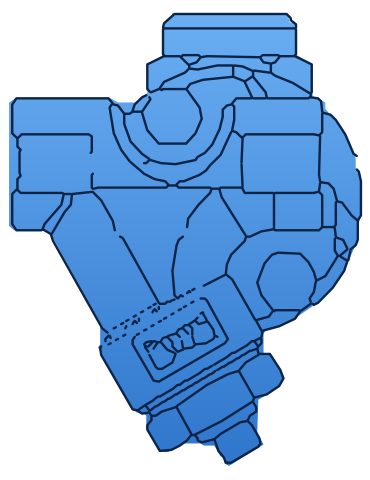
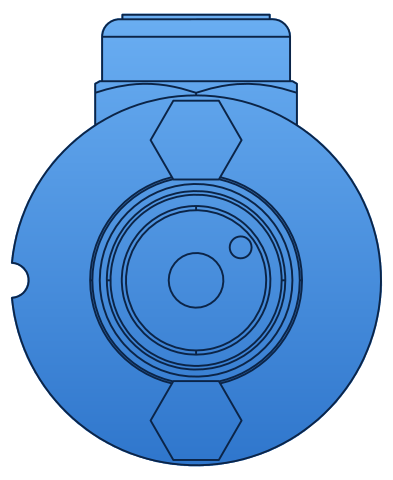
UTD52L: front view from Spirax CAD
Replaces the vectorised TI picture on a strainer connector with the CAD
front view (connector side), one trap point at the bolt centre. Model-only
size like the other universal trap units.

Claude-Session: https://claude.ai/code/session_016qkdkfbUrM9fafk75XM2aX

diff --git a/products/steam-traps/UTD52L/UTD52L.js b/products/steam-traps/UTD52L/UTD52L.js
@@ -1,2 +1,2 @@
 // UTD52L (TI-P614-04-US). Built by tools/make_packs.py.
-SDG.register({"product":{"name":"UTD52L","type":"Thermodynamic, bar stock, on strainer connector","ti":"TI-P614-04-US","sizes":["1/2\""],"variants":["Strainer connector"],"sizeLabel":"Size","variantLabel":"Connector","source":"Vectorised from the TI picture (the sheet has no vector drawing)","note":"Front view on a 1/2\" strainer connector, as the TI draws it (third view on page 3): pipe left to right, strainer leg down on the inlet side. The TI drawing is only a picture, so it was vectorised (tools/raster.py), not traced: lines follow the picture to within about 0.3 mm, but joints are not as clean as a traced drawing. Heights are from the TI: 1.5\" cap top to centreline, 3.0\" centreline to the bottom of the strainer. The TI gives no face to face for the connector; it is measured from the picture at the same scale (about 80 mm) and the connections are there. The connector is sold separately (TI-2-519-US, not attached), so 3/4\" and 1\" connectors are not drawn.","id":"UTD52L","family":"Steam traps"},"symbols":{"UTD52L|1/2\"|Strainer connector":{"box":[0.0,-38.1,88.31,114.3],"fill":"M69.76,-37.59 L41.02,-37.59 L40.76,-36.82 L38.93,-35.02 L38.41,-33.48 L38.41,-26.81 L34.75,-24.76 L34.75,-17.57 L32.14,-15.27 L27.43,-15.27 L25.60,-16.29 L1.83,-16.29 L0.26,-15.27 L0.26,15.56 L1.57,16.62 L8.62,16.62 L9.67,16.89 L10.97,18.22 L22.99,39.76 L22.99,45.08 L22.47,45.88 L31.09,61.31 L32.14,62.10 L33.96,62.37 L34.49,62.90 L34.49,65.83 L37.62,71.41 L38.41,71.94 L39.97,71.94 L43.37,69.82 L48.07,69.82 L48.86,70.35 L51.47,70.35 L53.04,73.01 L53.82,73.27 L54.08,74.87 L55.13,75.40 L63.75,70.08 L62.18,67.16 L62.44,58.91 L67.67,55.72 L68.97,53.33 L65.84,47.74 L63.75,47.21 L63.75,42.42 L64.27,41.62 L66.36,41.09 L71.06,38.96 L76.81,34.97 L81.25,30.45 L83.87,26.73 L87.52,18.48 L87.52,15.03 L88.31,11.30 L88.31,5.98 L87.79,2.53 L86.74,1.73 L86.74,-1.41 L83.34,-8.59 L79.16,-13.73 L79.16,-15.27 L76.03,-16.81 L76.03,-24.50 L72.11,-27.07 L72.11,-34.25 L71.59,-35.02 L70.28,-35.28Z","strokes":[[0.6,"M61.14,-21.68L64.27,-17.83L64.53,-16.55M71.59,-26.81L75.77,-24.76L75.77,-17.83L75.51,-17.57M52.25,43.22L51.73,42.95M47.03,54.66L48.60,53.59M50.69,52.53L51.73,51.73M78.38,-12.44L78.38,-7.83L77.86,-7.31M82.82,23.01L82.30,23.01M24.82,42.16L23.51,41.09L11.23,19.28L10.71,17.69M71.59,-33.74L38.93,-33.74M34.49,45.61L35.01,45.61L36.05,44.55M29.52,39.23L30.05,38.96M43.11,36.30L42.59,36.57M36.32,36.57L36.05,37.10M83.08,23.27L84.39,24.07M35.01,62.10L33.44,62.37L32.66,61.84M50.95,50.40L49.64,51.20M45.72,67.69L44.68,69.02L42.85,70.35L40.76,71.41L37.88,71.68L34.75,66.36L34.75,65.30L35.79,63.97L35.79,63.17M54.60,48.27L55.91,47.21L56.43,47.21M54.60,48.27L52.78,49.34M29.00,-12.19L29.00,-9.88L30.57,-5.52L33.44,-2.44L35.27,-1.15M48.86,53.59L50.42,52.53M65.58,-24.76L65.58,-22.96M67.93,-26.81L71.33,-26.81M2.35,6.25L2.35,3.86L3.14,3.06L2.87,2.26L2.87,-2.95L3.14,-3.46L2.35,-4.23L2.35,-6.29M52.78,49.34L51.47,50.14M66.10,7.31L59.05,7.31L58.52,6.25M48.86,30.45L54.08,27.79M15.94,7.85L15.68,10.24L14.11,12.10L10.97,17.42M38.67,-33.99L38.93,-35.02L41.54,-37.33L69.50,-37.33L70.54,-36.30L70.54,-35.79L71.85,-34.76L71.85,-33.99M66.36,7.58L66.36,16.36M58.52,5.72L58.26,0.13M56.17,-21.68L56.17,-24.25M56.17,-21.68L48.60,-20.91L45.46,-19.88L44.68,-18.86M56.17,-21.68L58.79,-20.65M44.94,40.29L44.15,40.29L43.63,40.83M60.88,-21.68L59.31,-20.65M42.06,57.58L43.63,56.52M37.36,44.55L36.32,44.28M37.36,44.55L37.88,44.55M37.36,44.55L36.32,46.15M35.27,47.74L36.84,50.67L37.36,51.20L38.41,51.20L41.02,49.60L41.80,47.48M34.23,45.61L33.96,45.08L34.49,44.55L35.79,44.28M44.42,-18.60L38.67,-18.60L38.41,-18.34L37.88,-18.60M45.98,53.33L47.81,52.26M45.98,53.33L44.68,54.12M40.24,58.65L41.80,57.58M46.77,39.23L47.55,40.03L49.38,39.50M46.77,45.08L49.38,44.82L51.21,43.75L51.47,43.22M81.78,18.22L81.52,16.09M46.51,31.25L45.98,31.52M43.89,56.52L45.46,55.45M35.27,-0.90L34.49,-0.13L33.96,-0.13M37.62,34.71L28.74,18.75M45.98,43.22L46.51,44.82M26.39,41.09L26.91,40.83M44.68,32.32L45.20,31.78L45.46,32.05M48.07,37.37L48.60,37.10L48.86,37.90M43.63,33.11L43.11,32.85L42.59,33.38M45.20,-24.50L45.20,-23.99M47.81,52.26L49.12,51.20L49.64,51.20M58.52,-6.29L58.26,-0.38M61.14,-22.96L61.14,-21.94M45.72,55.45L46.77,54.66M2.09,-6.54L1.05,-7.57L1.05,-14.75L2.09,-16.29L25.08,-16.29L26.13,-15.01M27.43,43.75L26.91,44.02M77.86,4.92L77.60,6.78M58.52,47.74L57.48,48.54M64.27,-16.29L61.14,-16.29M34.49,41.36L33.96,41.62M36.32,35.24L36.84,34.97M25.60,44.82L25.08,45.08M35.53,61.57L36.84,60.51M82.30,23.01L81.52,21.68L81.52,18.75M82.30,23.01L79.16,28.06L77.07,29.12M29.26,42.69L28.74,42.95M58.26,-6.54L56.96,-7.83L56.17,-8.08M60.35,46.68L58.79,47.74M39.97,58.65L38.93,59.44M77.60,7.05L78.38,7.85L78.38,15.56M75.24,-17.57L71.06,-20.14L66.62,-21.94L65.58,-22.71M46.51,39.23L45.20,40.03M59.83,63.97L60.35,62.90L61.92,61.84L61.92,60.77L61.14,59.44M36.32,40.29L35.79,40.56M66.36,16.36L63.23,16.89L60.35,18.22L59.57,18.22M66.36,16.36L66.62,16.62L77.60,16.62L78.38,15.83M60.61,-16.29L56.96,-16.29L55.91,-15.01M42.06,42.42L42.85,43.22M60.88,-23.22L58.52,-24.25L56.43,-24.50M39.19,57.32L41.02,56.25M39.19,57.32L37.88,58.11M42.06,60.51L49.64,55.19L54.87,52.53L57.48,51.73M42.85,55.19L44.15,54.12L44.68,54.12M42.85,55.19L42.33,55.19L41.02,56.25M23.25,45.61L22.99,45.88L23.25,47.74L31.09,61.31L32.40,61.57M43.63,41.09L44.94,42.42M36.58,36.30L37.10,36.84M38.14,39.23L37.62,39.50M41.54,47.21L39.71,46.41L38.14,44.55M62.70,47.48L65.32,47.48L67.93,51.46L68.71,53.59L67.67,55.45L64.53,57.58L61.40,58.38M53.56,50.67L52.25,51.46M45.20,-23.73L47.29,-23.48L52.25,-24.50L55.91,-24.50M14.11,7.58L15.68,7.58M39.71,43.22L38.67,43.49L38.14,44.28M66.10,36.57L63.23,32.85L62.18,29.66L64.01,24.87L65.84,22.74L67.41,22.21L72.89,22.47L74.98,24.60L76.29,27.00L76.81,28.86M28.48,18.48L27.96,18.22M78.38,-12.96L78.12,-15.52L77.34,-16.29L75.51,-16.55M35.27,61.57L34.23,60.24M37.62,36.30L37.62,35.77M55.39,49.60L53.82,50.67M38.67,59.44L37.10,60.51M63.75,41.62L67.67,40.56L71.59,38.70L72.89,36.84M81.25,15.83L78.64,15.83M75.51,-16.81L75.51,-17.32M39.19,34.97L39.71,34.44L40.50,34.44M60.88,59.44L53.30,64.23L46.51,67.69M87.26,14.23L85.70,12.90L83.34,9.71L82.30,9.44M87.26,14.23L88.05,12.90L88.05,4.39L87.52,1.99L87.00,1.46M87.26,14.23L87.26,19.02L86.74,20.35L85.43,21.41M57.22,48.54L55.65,49.60M65.32,-22.71L61.40,-23.22M48.07,33.65L49.12,33.65L49.64,34.18L54.87,43.75L54.08,44.82L37.62,54.39L36.32,54.12L31.09,45.08L31.09,44.02L31.61,43.22M43.37,41.09L42.59,41.36L42.06,42.16M21.42,6.25L22.47,5.98L39.45,5.98L39.97,5.45M75.51,34.97L72.89,36.84M55.91,-8.34L56.43,-10.90L56.43,-14.24L55.91,-14.75M31.35,38.17L31.87,37.90M25.60,43.49L25.34,42.95M13.85,7.58L13.59,7.31L3.14,7.31L2.35,6.52M50.69,6.25L50.42,5.98L42.59,5.98L42.06,5.45M37.88,34.97L38.93,34.97M72.89,36.84L72.63,36.57L66.62,36.57L66.36,36.84M42.33,46.94L41.02,45.61L41.02,44.55L39.97,43.49M42.33,46.94L43.63,46.41M20.64,-2.69L20.90,-2.95L20.90,-6.80L20.12,-7.31L3.40,-7.31L2.61,-6.54M44.68,15.83L44.94,13.70L47.55,10.24L50.42,7.31L50.69,6.52M37.88,-18.86L38.93,-20.40L44.15,-22.71L44.94,-23.48M83.08,22.74L84.65,21.41M31.09,-12.96L30.31,-12.44L29.26,-12.44M33.44,-12.96L35.53,-16.04L35.27,-16.55M43.37,-26.81L43.63,-27.07L47.55,-27.07L48.07,-26.55M33.18,37.10L33.70,36.84M71.85,-33.48L71.85,-27.32L71.59,-27.07M50.42,0.40L53.04,-2.18L55.65,-7.83M50.42,0.40L49.38,1.73L47.81,2.79L43.89,4.39L42.85,4.39L42.06,5.19M34.23,60.24L36.05,59.18M34.23,60.24L32.66,61.31M61.40,58.38L57.74,52.00M61.40,58.38L61.14,59.18M84.65,24.34L83.87,26.73L80.99,30.99L77.34,34.71L76.29,35.24L76.03,34.97M82.04,18.48L83.61,19.02L84.65,21.14M35.01,36.04L35.53,35.77M21.16,6.25L20.90,5.98L20.90,2.79L21.16,2.53M45.46,-24.76L47.03,-25.27L48.07,-26.55M36.05,59.18L37.36,58.11L37.88,58.11M62.97,43.49L61.40,44.28M35.79,-17.83L37.62,-18.60M77.86,4.39L77.60,2.79L77.86,-6.80M35.01,46.94L34.23,45.88M59.31,17.95L53.30,8.38L52.78,6.52M52.78,6.25L53.04,5.98L58.26,5.98M65.84,37.10L65.06,38.17L62.18,38.96M41.80,5.45L40.24,5.45M28.22,40.03L28.74,39.76M31.61,39.23L32.14,39.76M33.18,-12.96L31.35,-12.96M44.68,-18.34L47.81,-13.98L48.33,-11.16L46.77,-7.57L44.42,-5.00L37.62,-5.00L34.75,-8.34L33.44,-12.70M45.98,42.69L45.98,41.09L45.20,40.29M67.67,-26.81L67.41,-27.07L63.49,-27.07L62.97,-26.55M24.30,44.28L24.30,43.75L25.08,42.95M43.89,35.77L44.42,35.51M47.29,38.43L46.77,38.96M32.66,39.23L32.66,38.70M26.39,-14.75L27.43,-14.50L29.00,-12.44M46.51,67.69L45.98,67.69M46.51,67.69L47.29,68.49L47.29,69.02L48.33,69.55L51.47,68.75M61.66,38.96L55.91,28.86L54.60,27.79M26.65,16.62L26.13,14.23L23.25,9.18L21.16,7.05M36.05,62.90L36.84,62.90L38.41,61.84L41.80,60.77M61.92,39.23L63.23,41.62M45.72,34.71L46.24,34.44M30.57,-0.38L33.96,2.53L36.58,3.86L39.19,4.39L39.97,5.19M39.97,42.95L41.80,42.42M55.65,-14.75L54.60,-14.50L53.56,-13.47L53.56,-11.67L52.78,-8.59L50.95,-4.75L49.12,-2.69L47.29,-1.67L46.77,-0.90M42.06,60.77L45.72,67.42M82.04,9.18L81.25,6.25L79.95,4.92L78.12,4.65M65.84,-25.02L66.62,-25.27L67.67,-26.55M34.49,-17.06L33.44,-16.55L31.61,-14.75L31.09,-13.21M46.77,-0.90L41.80,0.13L38.14,-0.13L35.53,-0.90M38.93,38.70L39.45,38.43M38.93,-27.07L38.67,-27.32L38.67,-33.48M2.09,6.52L1.05,7.58L1.05,15.03L2.09,16.62L8.36,16.62L8.62,16.36M40.76,37.63L41.28,37.37M35.79,62.90L35.27,62.10M78.64,-12.70L80.47,-12.19L81.78,-10.90L84.13,-7.31L86.22,-2.44L87.00,-1.92M66.62,7.31L76.29,7.31L77.34,7.05M62.18,46.15L62.44,45.61M62.18,46.15L60.61,46.68M62.18,46.15L62.44,47.21M8.62,16.36L9.14,15.03L13.32,10.24L13.85,7.85M8.62,16.36L10.45,17.42M59.83,64.23L60.88,65.30L62.70,68.49L62.97,69.82L62.44,70.61L55.65,74.60L54.34,74.60L53.82,73.27L52.51,71.68L51.47,68.75M30.31,-0.64L28.22,-3.46L26.39,-7.57L25.34,-13.98L25.87,-14.75M46.51,45.35L45.98,45.88L43.89,46.15M43.63,18.22L42.59,19.02L42.06,20.35L41.02,26.73L41.54,32.85L42.33,33.65M84.91,24.07L85.43,21.68M49.12,38.17L49.64,39.23M77.60,-7.06L76.29,-7.31L59.31,-7.31L58.52,-6.54M75.51,34.44L75.24,33.65L76.29,32.05L76.81,29.39M75.24,-16.55L74.98,-16.29L64.79,-16.29M63.23,43.75L63.23,44.82L62.44,45.61M65.32,-25.02L63.75,-25.27L62.97,-26.30M54.34,27.53L54.60,25.13L55.65,22.74L59.05,19.28L59.31,18.48M32.14,42.69L32.66,42.42M43.37,44.28L43.63,45.88M60.88,-16.55L59.05,-20.40M15.94,7.58L20.90,7.05M62.44,47.74L59.31,49.60L57.74,51.46M29.52,40.56L29.26,41.09M48.07,-26.55L49.64,-26.81L62.70,-26.55M62.44,45.61L61.40,44.28M35.53,-17.83L34.75,-18.60L34.75,-24.76L38.93,-26.81M31.35,39.50L31.09,40.03M81.52,15.56L81.78,15.29L81.78,9.71L82.04,9.44M40.76,34.18L41.54,33.91M52.51,6.25L50.95,6.25M42.85,-26.81L39.19,-26.81M43.11,-26.55L44.94,-24.76M49.90,39.50L51.21,41.36L51.47,42.69M57.74,46.41L59.57,45.35M57.74,46.41L56.43,47.21M59.57,45.35L60.88,44.28L61.40,44.28M63.23,43.22L63.49,41.89M51.47,68.75L53.04,67.42L58.00,64.50L59.57,64.23"]],"arrow":null,"dims":{"Cap top to centreline":38.1,"Centreline to strainer bottom":76.2,"Face to face (from the picture)":79.9},"ports":[[0.0,0.0],[79.9,0.0]]}}});
+SDG.register({"product":{"name":"UTD52L","type":"Thermodynamic, for pipeline connectors, front view","ti":"TI-P614-04-US","sizes":["UTD52L"],"variants":["-"],"sizeLabel":"Model","source":"Spirax 2D CAD (UTD52L connector 173C front DWG), 1:1","note":"Front view from Spirax's 2D CAD of the UTD52L (front DWG, visible edges only), 1:1: the trap seen from the connector side, flange 67 round about the spigot, the two connector bolts above and below it, 50.8 apart, and the hex body and cap standing up behind (cap top 48.1 above the spigot centreline). The one connection point is the bolt centre (= spigot centre), so it snaps onto a connector's trap point. Replaces the vectorised TI picture on a strainer connector (2026-11-18); _utd52l still builds that.","id":"UTD52L","family":"Steam traps"},"symbols":{"UTD52L|UTD52L|-":{"box":[-33.52,-48.28,67.19,81.95],"fill":"M-13.35,-48.31 L-13.45,-48.26 L-13.55,-48.11 L-13.55,-47.51 L-13.60,-47.46 L-14.30,-47.46 L-14.35,-47.41 L-14.65,-47.41 L-14.70,-47.36 L-14.90,-47.36 L-15.25,-47.16 L-15.45,-47.11 L-15.65,-46.91 L-16.00,-46.71 L-16.45,-46.31 L-16.65,-45.96 L-16.85,-45.76 L-16.90,-45.56 L-17.00,-45.41 L-17.00,-45.31 L-17.10,-45.16 L-17.15,-44.66 L-17.20,-44.61 L-17.20,-36.31 L-17.25,-36.26 L-17.50,-36.26 L-17.80,-36.11 L-17.90,-36.01 L-18.35,-35.81 L-18.45,-35.61 L-18.45,-28.21 L-20.55,-26.71 L-21.50,-25.91 L-21.75,-25.76 L-22.05,-25.46 L-22.10,-25.46 L-24.45,-23.21 L-24.45,-23.16 L-25.35,-22.26 L-25.35,-22.21 L-26.05,-21.46 L-26.30,-21.06 L-27.25,-19.81 L-27.35,-19.61 L-27.50,-19.46 L-28.85,-17.41 L-29.00,-17.26 L-29.30,-16.61 L-29.40,-16.51 L-29.65,-15.96 L-29.75,-15.86 L-30.35,-14.61 L-30.55,-14.31 L-30.55,-14.21 L-30.70,-13.96 L-30.70,-13.86 L-30.85,-13.61 L-30.85,-13.51 L-31.05,-13.16 L-31.20,-12.66 L-31.30,-12.51 L-31.30,-12.41 L-31.40,-12.26 L-31.40,-12.16 L-31.70,-11.51 L-31.70,-11.41 L-31.75,-11.36 L-31.75,-11.26 L-31.80,-11.21 L-31.80,-11.11 L-32.20,-10.01 L-32.20,-9.86 L-32.35,-9.51 L-32.35,-9.36 L-32.45,-9.16 L-32.50,-8.81 L-32.55,-8.76 L-32.60,-8.46 L-32.75,-8.06 L-32.80,-7.61 L-32.90,-7.36 L-32.90,-7.16 L-32.95,-7.11 L-32.95,-6.91 L-33.00,-6.86 L-33.00,-6.66 L-33.05,-6.61 L-33.05,-6.41 L-33.10,-6.36 L-33.10,-6.16 L-33.15,-6.11 L-33.15,-5.86 L-33.20,-5.81 L-33.25,-5.31 L-33.30,-5.26 L-33.30,-5.06 L-33.35,-5.01 L-33.35,-4.66 L-33.40,-4.61 L-33.40,-4.26 L-33.45,-4.21 L-33.45,-3.81 L-33.50,-3.76 L-33.55,-3.16 L-33.50,-3.06 L-33.35,-2.96 L-32.75,-2.91 L-32.70,-2.86 L-32.30,-2.76 L-32.20,-2.66 L-31.90,-2.51 L-31.15,-1.81 L-30.85,-1.41 L-30.85,-1.31 L-30.75,-1.16 L-30.75,-1.06 L-30.65,-0.86 L-30.65,-0.71 L-30.55,-0.46 L-30.55,0.34 L-30.60,0.39 L-30.65,0.84 L-30.75,0.99 L-30.80,1.24 L-30.90,1.34 L-31.20,1.89 L-31.45,2.19 L-31.80,2.44 L-32.05,2.54 L-32.15,2.64 L-32.45,2.79 L-33.40,2.99 L-33.55,3.19 L-33.55,3.34 L-33.50,3.39 L-33.50,3.74 L-33.45,3.79 L-33.45,4.14 L-33.40,4.19 L-33.40,4.54 L-33.35,4.59 L-33.35,4.94 L-33.30,4.99 L-33.30,5.29 L-33.25,5.34 L-33.20,5.94 L-33.15,5.99 L-33.15,6.24 L-33.10,6.29 L-33.10,6.49 L-33.05,6.54 L-33.05,6.74 L-32.95,6.99 L-32.95,7.19 L-32.90,7.24 L-32.90,7.39 L-32.80,7.64 L-32.80,7.84 L-32.75,7.89 L-32.60,8.64 L-32.50,8.84 L-32.40,9.39 L-32.35,9.44 L-32.35,9.54 L-32.30,9.59 L-31.75,11.34 L-31.65,11.49 L-31.55,11.89 L-31.30,12.44 L-31.30,12.59 L-30.90,13.44 L-30.90,13.54 L-30.75,13.79 L-30.75,13.89 L-30.00,15.39 L-29.90,15.49 L-29.65,16.04 L-29.55,16.14 L-29.25,16.79 L-28.95,17.19 L-28.50,17.99 L-28.10,18.54 L-28.05,18.69 L-27.65,19.29 L-26.75,20.44 L-26.55,20.79 L-25.50,21.99 L-25.50,22.04 L-24.80,22.79 L-24.80,22.84 L-24.00,23.64 L-24.00,23.69 L-22.30,25.29 L-22.25,25.29 L-21.50,25.99 L-21.05,26.29 L-19.95,27.19 L-17.40,28.89 L-17.05,29.04 L-16.95,29.14 L-16.60,29.29 L-16.15,29.59 L-15.30,29.99 L-15.20,30.09 L-14.70,30.34 L-14.60,30.34 L-13.30,30.99 L-13.20,30.99 L-13.05,31.09 L-12.70,31.19 L-12.45,31.34 L-12.35,31.34 L-11.95,31.54 L-11.80,31.54 L-11.75,31.59 L-11.65,31.59 L-11.60,31.64 L-11.50,31.64 L-11.45,31.69 L-11.35,31.69 L-11.30,31.74 L-11.20,31.74 L-11.15,31.79 L-11.05,31.79 L-9.95,32.19 L-9.80,32.19 L-9.45,32.34 L-9.30,32.34 L-9.25,32.39 L-9.15,32.39 L-8.95,32.49 L-8.80,32.49 L-8.75,32.54 L-8.60,32.54 L-8.40,32.64 L-7.85,32.74 L-7.65,32.84 L-7.50,32.84 L-7.25,32.94 L-6.75,32.99 L-6.70,33.04 L-6.50,33.04 L-6.45,33.09 L-6.25,33.09 L-6.20,33.14 L-6.00,33.14 L-5.95,33.19 L-5.70,33.19 L-5.65,33.24 L-5.40,33.24 L-5.35,33.29 L-5.05,33.29 L-5.00,33.34 L-4.75,33.34 L-4.70,33.39 L-4.40,33.39 L-4.35,33.44 L-3.45,33.49 L-3.40,33.54 L-2.90,33.54 L-2.85,33.59 L-2.25,33.59 L-2.20,33.64 L-1.45,33.64 L-1.40,33.69 L1.40,33.69 L1.45,33.64 L2.50,33.64 L2.55,33.59 L3.00,33.59 L3.05,33.54 L4.00,33.49 L4.05,33.44 L4.35,33.44 L4.40,33.39 L4.65,33.39 L4.70,33.34 L5.00,33.34 L5.05,33.29 L5.60,33.24 L5.65,33.19 L5.85,33.19 L5.90,33.14 L6.10,33.14 L6.15,33.09 L6.35,33.09 L6.40,33.04 L6.60,33.04 L6.65,32.99 L6.90,32.99 L7.15,32.89 L7.35,32.89 L7.60,32.79 L7.80,32.79 L7.85,32.74 L8.00,32.74 L8.25,32.64 L8.65,32.59 L9.00,32.44 L9.15,32.44 L9.50,32.29 L9.65,32.29 L9.70,32.24 L9.80,32.24 L9.85,32.19 L9.95,32.19 L10.00,32.14 L10.10,32.14 L10.15,32.09 L11.90,31.54 L12.05,31.44 L12.15,31.44 L12.45,31.29 L12.70,31.24 L12.85,31.14 L13.10,31.09 L14.30,30.49 L14.40,30.49 L15.90,29.74 L16.35,29.44 L17.40,28.89 L17.65,28.69 L17.80,28.64 L17.90,28.54 L18.05,28.49 L18.30,28.29 L18.60,28.14 L18.95,27.84 L19.15,27.74 L19.30,27.59 L19.50,27.49 L20.10,27.04 L21.05,26.24 L22.25,25.34 L22.90,24.69 L22.95,24.69 L25.50,22.09 L25.80,21.64 L26.40,20.94 L26.55,20.69 L26.75,20.49 L27.50,19.49 L27.80,18.99 L27.95,18.84 L28.35,18.24 L28.40,18.09 L28.60,17.84 L28.80,17.44 L29.15,16.94 L29.55,16.14 L29.85,15.69 L30.60,14.19 L30.60,14.09 L30.70,13.94 L30.80,13.59 L30.95,13.34 L31.05,12.99 L31.20,12.74 L31.20,12.64 L31.30,12.49 L31.40,12.14 L31.55,11.89 L31.55,11.79 L31.75,11.39 L31.75,11.24 L31.80,11.19 L31.80,11.09 L31.85,11.04 L31.85,10.94 L31.90,10.89 L31.90,10.79 L32.30,9.69 L32.30,9.54 L32.40,9.34 L32.50,8.79 L32.60,8.59 L32.60,8.44 L32.70,8.19 L32.70,7.99 L32.75,7.94 L32.75,7.79 L32.85,7.54 L32.85,7.34 L32.95,7.09 L32.95,6.89 L33.00,6.84 L33.00,6.64 L33.05,6.59 L33.05,6.39 L33.10,6.34 L33.10,6.14 L33.15,6.09 L33.15,5.84 L33.20,5.79 L33.25,5.34 L33.30,5.29 L33.30,4.94 L33.35,4.89 L33.35,4.54 L33.40,4.49 L33.40,4.14 L33.45,4.09 L33.45,3.74 L33.50,3.69 L33.50,3.29 L33.55,3.24 L33.60,2.24 L33.65,2.19 L33.65,1.09 L33.70,1.04 L33.65,-1.86 L33.60,-1.91 L33.60,-2.66 L33.55,-2.71 L33.55,-3.26 L33.50,-3.31 L33.50,-3.71 L33.45,-3.76 L33.45,-4.11 L33.40,-4.16 L33.40,-4.51 L33.35,-4.56 L33.35,-4.96 L33.30,-5.01 L33.30,-5.26 L33.25,-5.31 L33.25,-5.61 L33.20,-5.66 L33.20,-5.91 L33.15,-5.96 L33.15,-6.26 L33.10,-6.31 L33.10,-6.51 L33.05,-6.56 L33.05,-6.76 L32.95,-7.01 L32.95,-7.21 L32.90,-7.26 L32.90,-7.41 L32.80,-7.66 L32.75,-8.06 L32.65,-8.26 L32.65,-8.41 L32.55,-8.61 L32.55,-8.76 L32.50,-8.81 L32.40,-9.31 L32.25,-9.66 L32.25,-9.81 L32.20,-9.86 L31.70,-11.46 L31.60,-11.61 L31.50,-12.01 L31.25,-12.56 L31.25,-12.71 L30.85,-13.51 L30.85,-13.61 L30.65,-13.96 L30.65,-14.06 L30.00,-15.31 L30.00,-15.41 L29.90,-15.61 L29.65,-15.96 L29.55,-16.21 L29.45,-16.31 L29.35,-16.56 L29.25,-16.66 L29.15,-16.91 L28.90,-17.26 L28.80,-17.51 L28.70,-17.61 L28.35,-18.26 L28.00,-18.71 L27.70,-19.21 L27.55,-19.36 L27.45,-19.56 L26.70,-20.56 L26.50,-20.76 L26.30,-21.11 L25.75,-21.71 L25.50,-22.06 L24.55,-23.06 L24.55,-23.11 L22.90,-24.76 L22.85,-24.76 L22.00,-25.56 L21.75,-25.71 L20.80,-26.51 L20.20,-26.96 L20.00,-27.06 L19.65,-27.36 L19.45,-27.46 L19.30,-27.61 L19.10,-27.71 L18.95,-27.86 L18.60,-28.06 L18.45,-28.21 L18.45,-35.61 L18.25,-35.86 L18.00,-35.96 L17.90,-36.06 L17.60,-36.21 L17.25,-36.26 L17.20,-36.31 L17.20,-44.41 L17.15,-44.46 L17.15,-44.81 L16.95,-45.31 L16.95,-45.46 L16.85,-45.56 L16.65,-46.01 L16.55,-46.06 L16.35,-46.36 L16.05,-46.66 L16.00,-46.66 L15.60,-47.01 L15.15,-47.26 L14.65,-47.36 L14.60,-47.41 L14.40,-47.41 L14.35,-47.46 L13.60,-47.51 L13.55,-47.56 L13.55,-48.11 L13.50,-48.21 L13.35,-48.31Z","strokes":[[0.35,"M4.36,18.68L5.90,18.26L7.38,17.71L8.80,17.05L10.15,16.29L11.42,15.42L12.62,14.46L13.18,13.94L14.25,12.85L15.23,11.67L16.11,10.42L16.89,9.10L17.57,7.72L18.13,6.28L18.58,4.80L18.91,3.26L19.11,1.69L19.19,-0.00L18.78,-0.00L18.71,-1.63L18.50,-3.23L18.16,-4.78L17.70,-6.29L17.42,-7.03L16.77,-8.45L16.41,-9.14L15.59,-10.47L14.67,-11.72L13.65,-12.90L12.54,-13.98L11.34,-14.98L10.05,-15.87L8.68,-16.66L7.24,-17.34L5.72,-17.89L4.15,-18.32M-4.16,-18.32L-5.73,-17.89L-7.24,-17.34L-8.68,-16.66L-10.05,-15.87L-11.34,-14.98L-12.54,-13.98L-13.66,-12.90L-14.68,-11.72L-15.60,-10.47L-16.41,-9.14L-16.78,-8.45L-17.42,-7.03L-17.70,-6.29L-18.17,-4.78L-18.51,-3.23L-18.72,-1.63L-18.79,-0.00L-19.19,-0.00L-19.12,-1.66L-18.91,-3.28L-18.57,-4.86L-18.10,-6.40L-17.50,-7.88L-16.79,-9.30L-15.97,-10.65L-15.04,-11.93L-14.00,-13.12L-12.88,-14.24L-11.65,-15.25L-10.35,-16.17L-8.96,-16.97L-7.50,-17.67L-5.97,-18.24L-4.37,-18.69M-13.34,-47.30L-13.34,-48.11L13.33,-48.11L13.33,-47.30M17.02,-44.12L16.95,-44.76L16.77,-45.36L16.47,-45.90L16.08,-46.37L15.62,-46.75L15.08,-47.05L14.48,-47.23L13.84,-47.30L-14.17,-47.28L-14.79,-47.15L-15.36,-46.91L-15.87,-46.57L-16.30,-46.14L-16.64,-45.64L-16.88,-45.06L-17.00,-44.45L-17.02,-44.12L17.02,-44.12L17.02,-36.07M-17.42,-36.07L17.45,-36.07L18.26,-35.60L18.26,-33.97L15.60,-34.75L13.58,-35.19L11.54,-35.48L9.48,-35.60L7.42,-35.54L6.05,-35.40L4.69,-35.19L2.66,-34.75L-0.00,-33.97L-2.66,-34.75L-4.01,-35.06L-5.38,-35.31L-6.74,-35.48L-8.12,-35.58L-9.49,-35.60L-10.86,-35.54L-12.22,-35.40L-14.26,-35.06L-16.27,-34.58L-18.27,-33.97L-18.27,-35.60L-17.42,-36.07M15.50,-0.00L15.48,-0.79L15.33,-2.33L15.20,-3.08L14.83,-4.54L14.59,-5.26L14.02,-6.63L13.32,-7.93L12.93,-8.56L12.06,-9.74L11.09,-10.84L10.01,-11.84L9.44,-12.30L8.85,-12.74L7.60,-13.52L6.28,-14.18L5.59,-14.47L4.88,-14.72L3.42,-15.13L1.91,-15.39L1.14,-15.47L-0.43,-15.50L-1.21,-15.46L-1.97,-15.38L-3.47,-15.12L-4.92,-14.71L-5.62,-14.46L-6.97,-13.86L-7.62,-13.51L-8.26,-13.13L-9.46,-12.29L-10.03,-11.83L-11.11,-10.83L-11.61,-10.29L-12.53,-9.15L-13.34,-7.92L-14.04,-6.61L-14.34,-5.92L-14.84,-4.51L-15.21,-3.03L-15.34,-2.27L-15.49,-0.72L-15.48,0.89L-15.42,1.67L-15.18,3.19L-14.80,4.66L-14.28,6.06L-13.97,6.74L-13.26,8.04L-12.44,9.26L-11.99,9.84L-11.51,10.39L-10.48,11.43L-9.36,12.36L-8.77,12.79L-8.15,13.19L-6.87,13.90L-5.52,14.50L-4.82,14.74L-3.37,15.14L-1.88,15.39L-0.34,15.50L0.44,15.50L2.00,15.38L3.50,15.11L4.95,14.70L5.65,14.44L7.00,13.84L7.65,13.49L8.89,12.70L9.48,12.27L10.60,11.32L11.62,10.27L12.53,9.13L13.34,7.90L13.70,7.26L14.33,5.93L14.83,4.52L15.03,3.80L15.20,3.06L15.43,1.55L15.50,-0.00L16.16,-0.00L16.08,1.62L15.85,3.19L15.46,4.72L14.94,6.18L14.28,7.57L13.50,8.89L12.60,10.12L12.11,10.71L11.05,11.80L9.89,12.79L8.64,13.67L7.30,14.42L5.89,15.06L4.41,15.56L2.87,15.91L1.28,16.11L-0.35,16.16L-1.16,16.12L-2.74,15.94L-3.51,15.78L-5.02,15.37L-6.46,14.82L-7.16,14.50L-8.50,13.75L-9.14,13.34L-9.76,12.89L-10.93,11.91L-12.00,10.83L-12.97,9.65L-13.83,8.38L-14.21,7.72L-14.57,7.03L-15.17,5.60L-15.64,4.10L-15.82,3.33L-15.97,2.54L-16.14,0.93L-16.17,-0.38L-16.10,-1.56L-16.00,-2.37L-15.69,-3.94L-15.48,-4.70L-14.95,-6.18L-14.29,-7.58L-13.91,-8.25L-13.06,-9.54L-12.59,-10.14L-12.10,-10.73L-11.03,-11.82L-9.86,-12.81L-9.25,-13.26L-7.95,-14.08L-7.27,-14.45L-5.86,-15.08L-5.13,-15.34L-3.62,-15.76L-2.84,-15.92L-2.06,-16.04L-0.45,-16.16L1.19,-16.12L2.00,-16.05L2.79,-15.93L4.34,-15.58L5.09,-15.35L6.54,-14.79L7.92,-14.10L8.59,-13.70L9.23,-13.28L10.44,-12.34L11.01,-11.84L12.08,-10.74L13.04,-9.55L13.48,-8.92L14.27,-7.60L14.62,-6.91L15.21,-5.48L15.46,-4.74L15.67,-3.98L15.98,-2.42L16.14,-0.82L16.16,-0.00M-0.00,12.70L1.30,12.63L2.56,12.44L3.17,12.30L4.36,11.93L4.94,11.70L6.05,11.17L7.60,10.18L8.54,9.40L9.40,8.54L10.53,7.10L11.44,5.50L11.93,4.36L12.13,3.78L12.44,2.56L12.63,1.30L12.70,-0.00L12.68,-0.63L12.56,-1.86L12.33,-3.06L11.77,-4.77L10.99,-6.36L10.35,-7.36L9.23,-8.72L7.94,-9.91L6.48,-10.92L4.89,-11.72L3.76,-12.14L1.97,-12.55L0.36,-12.70L-1.20,-12.65L-2.96,-12.35L-4.63,-11.83L-5.69,-11.36L-7.17,-10.48L-8.52,-9.43L-9.71,-8.20L-10.72,-6.81L-11.55,-5.30L-12.16,-3.66L-12.45,-2.52L-12.68,-0.73L-12.69,0.59L-12.57,1.84L-12.47,2.45L-12.17,3.64L-11.53,5.34L-10.98,6.40L-10.33,7.40L-9.19,8.76L-8.34,9.58L-7.41,10.32L-6.41,10.97L-5.35,11.52L-3.67,12.16L-1.88,12.56L-1.26,12.64L-0.00,12.70L-0.00,13.46L-1.36,13.39L-2.02,13.31L-3.32,13.05L-4.56,12.67L-5.76,12.17L-6.33,11.88L-6.89,11.57L-7.95,10.86L-8.46,10.47L-9.41,9.63L-10.68,8.20L-11.41,7.15L-11.74,6.60L-12.32,5.45L-12.56,4.85L-12.97,3.61L-13.14,2.97L-13.36,1.66L-13.46,0.31L-13.46,-0.37L-13.36,-1.71L-13.26,-2.37L-12.97,-3.65L-12.55,-4.88L-12.03,-6.05L-11.73,-6.62L-11.40,-7.17L-10.67,-8.21L-10.27,-8.71L-9.40,-9.64L-8.94,-10.07L-7.94,-10.88L-6.87,-11.58L-6.31,-11.90L-5.14,-12.45L-4.54,-12.68L-3.28,-13.06L-2.63,-13.21L-1.30,-13.40L-0.62,-13.45L0.38,-13.46L1.45,-13.38L2.12,-13.30L3.41,-13.02L4.04,-12.84L5.26,-12.39L5.85,-12.13L6.98,-11.52L8.04,-10.80L8.54,-10.41L9.02,-9.99L9.92,-9.10L11.10,-7.61L12.07,-5.96L12.58,-4.79L12.80,-4.18L13.14,-2.92L13.27,-2.28L13.36,-1.63L13.46,-0.29L13.42,1.06L13.25,2.39L12.95,3.67L12.54,4.91L12.01,6.08L11.38,7.19L10.65,8.24L9.82,9.20L8.91,10.09L7.40,11.24L6.30,11.90L5.14,12.44L3.93,12.88L2.66,13.20L1.35,13.39L-0.00,13.46M4.94,0.23L4.89,-0.78L4.64,-1.72L4.23,-2.57L3.67,-3.32L2.99,-3.95L2.19,-4.44L1.30,-4.78L0.35,-4.94L-0.64,-4.91L-1.58,-4.70L-2.45,-4.31L-3.22,-3.77L-3.86,-3.10L-4.38,-2.32L-4.58,-1.90L-4.86,-0.98L-4.96,-0.00L-4.86,0.98L-4.58,1.90L-4.13,2.73L-3.55,3.46L-2.83,4.07L-2.01,4.53L-1.10,4.83L-0.12,4.95L0.87,4.88L1.79,4.62L2.63,4.19L3.38,3.62L4.00,2.92L4.48,2.11L4.80,1.20L4.94,0.23M10.06,-5.97L9.99,-6.47L9.86,-6.83L9.67,-7.16L9.41,-7.43L9.12,-7.66L8.78,-7.83L8.41,-7.93L8.02,-7.95L7.63,-7.90L7.26,-7.78L6.94,-7.60L6.65,-7.35L6.42,-7.06L6.24,-6.73L6.13,-6.36L6.09,-5.97L6.13,-5.58L6.24,-5.21L6.42,-4.88L6.66,-4.58L6.94,-4.34L7.27,-4.16L7.64,-4.04L8.03,-3.99L8.42,-4.02L8.79,-4.12L9.13,-4.29L9.43,-4.52L9.68,-4.80L9.87,-5.12L10.00,-5.49L10.06,-5.97M-17.45,-0.00L-17.37,1.69L-17.12,3.41L-16.70,5.07L-16.14,6.66L-15.42,8.18L-14.57,9.61L-13.59,10.94L-13.06,11.58L-11.91,12.76L-10.65,13.83L-9.29,14.77L-7.85,15.59L-6.32,16.27L-4.73,16.80L-3.07,17.18L-1.36,17.40L0.40,17.44L2.15,17.32L3.85,17.02L5.49,16.57L7.06,15.96L8.55,15.21L9.96,14.33L11.27,13.32L12.48,12.19L13.58,10.96L14.55,9.63L15.40,8.20L16.12,6.69L16.69,5.11L17.10,3.46L17.36,1.75L17.45,-0.00L17.36,-1.75L17.11,-3.45L16.69,-5.09L16.13,-6.67L15.42,-8.18L14.57,-9.60L14.10,-10.28L13.07,-11.56L11.93,-12.74L10.67,-13.81L9.32,-14.75L7.88,-15.57L6.36,-16.26L4.76,-16.79L3.10,-17.18L1.38,-17.40L-0.38,-17.45L-2.11,-17.33L-3.79,-17.04L-5.42,-16.60L-6.98,-16.00L-8.46,-15.27L-9.87,-14.40L-11.18,-13.40L-12.39,-12.29L-13.49,-11.07L-14.48,-9.75L-15.34,-8.33L-16.07,-6.83L-16.65,-5.25L-17.08,-3.60L-17.35,-1.88L-17.45,-0.00M-33.35,3.17L-33.16,4.79L-32.89,6.39L-32.54,7.95L-32.13,9.49L-31.65,11.00L-31.10,12.47L-30.48,13.91L-29.80,15.31L-29.06,16.67L-28.26,17.99L-27.40,19.27L-26.49,20.51L-25.52,21.70L-24.50,22.85L-23.43,23.94L-22.31,24.99L-21.14,25.98L-19.93,26.92L-18.68,27.81L-17.38,28.64L-16.05,29.40L-14.68,30.11L-13.28,30.76L-11.84,31.34L-10.37,31.86L-8.87,32.31L-7.35,32.69L-5.80,32.99L-4.22,33.23L-2.63,33.39L-1.01,33.48L0.62,33.49L2.25,33.42L3.86,33.27L5.45,33.05L7.02,32.76L8.55,32.39L10.06,31.95L11.54,31.45L12.99,30.88L14.41,30.24L15.79,29.54L17.13,28.79L18.43,27.97L19.69,27.09L20.91,26.16L22.09,25.18L23.22,24.14L24.30,23.05L25.33,21.92L26.30,20.74L27.23,19.51L28.10,18.24L28.91,16.93L29.66,15.58L30.35,14.19L30.97,12.76L31.54,11.30L32.03,9.81L32.46,8.29L32.81,6.74L33.10,5.16L33.30,3.55L33.44,1.93L33.49,0.23L33.46,-1.46L33.35,-3.12L33.16,-4.77L32.89,-6.39L32.54,-7.98L32.11,-9.55L31.61,-11.09L31.04,-12.59L30.40,-14.06L29.70,-15.50L28.92,-16.89L28.09,-18.25L27.19,-19.56L26.23,-20.83L25.21,-22.05L24.14,-23.22L23.01,-24.34L21.83,-25.41L20.60,-26.42L19.32,-27.37L17.99,-28.26L16.62,-29.09L15.20,-29.86L13.74,-30.56L11.48,-31.48L9.93,-32.00L8.35,-32.45L6.73,-32.82L5.08,-33.11L3.40,-33.33L1.70,-33.46L0.00,-33.50L-1.67,-33.46L-3.33,-33.34L-4.97,-33.14L-6.58,-32.85L-8.95,-32.29L-10.50,-31.82L-12.01,-31.28L-13.50,-30.67L-14.94,-29.99L-16.35,-29.24L-17.73,-28.43L-19.05,-27.55L-20.34,-26.62L-21.58,-25.62L-22.77,-24.57L-23.91,-23.46L-25.00,-22.30L-26.03,-21.09L-27.01,-19.83L-27.92,-18.52L-28.78,-17.16L-29.57,-15.76L-30.30,-14.32L-30.95,-12.83L-31.54,-11.31L-32.06,-9.75L-32.50,-8.15L-32.86,-6.52L-33.15,-4.86L-33.35,-3.17L-32.74,-3.09L-32.18,-2.89L-31.68,-2.60L-31.23,-2.23L-30.71,-1.53L-30.48,-0.99L-30.35,-0.40L-30.33,0.22L-30.43,0.81L-30.63,1.36L-30.93,1.86L-31.31,2.30L-31.77,2.66L-32.29,2.93L-32.86,3.11L-33.35,3.17M19.08,1.99L19.19,-0.00L19.09,-1.90L18.87,-3.46L18.53,-4.97L18.07,-6.45L17.50,-7.87L16.82,-9.23L16.04,-10.53L15.61,-11.16L14.68,-12.36L13.66,-13.48L12.55,-14.51L11.36,-15.46L10.74,-15.90L10.10,-16.32L8.76,-17.08L7.36,-17.73L5.89,-18.26L4.36,-18.69M4.15,18.32L5.60,17.93L6.99,17.43L8.34,16.83L9.62,16.13L10.83,15.34L11.98,14.47L13.56,13.00L14.51,11.92L15.38,10.77L16.52,8.93L17.16,7.63L17.70,6.28L18.14,4.88L18.46,3.43L18.68,1.94L18.78,-0.00M-18.79,-0.00L-18.72,1.63L-18.51,3.22L-18.17,4.78L-17.70,6.29L-17.12,7.74L-16.41,9.14L-15.60,10.47L-14.68,11.72L-13.66,12.89L-12.54,13.98L-11.34,14.98L-10.05,15.87L-8.68,16.66L-7.24,17.33L-5.73,17.89L-4.16,18.32M-19.19,-0.00L-19.12,1.66L-18.91,3.28L-18.57,4.86L-18.10,6.40L-17.50,7.88L-16.79,9.30L-15.97,10.65L-15.04,11.92L-14.00,13.12L-12.88,14.23L-11.65,15.25L-10.35,16.16L-8.96,16.97L-7.50,17.66L-5.97,18.24L-4.37,18.68M-8.24,25.40L-4.12,18.26L4.12,18.26L8.24,25.40L4.12,32.54L-4.12,32.54L-8.24,25.40M4.12,-18.26L-4.12,-18.26L-8.24,-25.40L-4.12,-32.54L4.12,-32.54L8.24,-25.40L4.12,-18.26M-15.51,-0.00L-16.17,-0.00M-0.00,-12.70L-0.00,-13.46M-18.27,-33.97L-18.27,-28.08M-0.00,-33.97L-0.00,-33.50M-18.27,-35.59L-18.27,-35.59M18.26,-33.97L18.26,-28.08M-17.02,-36.07L-17.02,-44.12"]],"arrow":null,"dims":{"Flange":67,"Cap top to centreline":48.1,"Spigot face to body end":67.7,"Bolt spacing":50.8},"ports":[[0.0,0.0]]}}});

diff --git a/tools/universal.py b/tools/universal.py
@@ -324,25 +324,25 @@ def _uib(self):
 
 
 DATA["UTD52L"] = {
-    "name": "UTD52L", "type": "Thermodynamic, bar stock, on strainer connector", "ti": "TI-P614-04-US",
-    "sizes": {'1/2"': {"Cap top to centreline": 38.1, "Centreline to strainer bottom": 76.2}},
-    "variants": ["Strainer connector"], "variantLabel": "Connector",
-    "source": "Vectorised from the TI picture (the sheet has no vector drawing)",
-    "note": "Front view on a 1/2\" strainer connector, as the TI draws it (third view on page 3): pipe left to right, "
-            "strainer leg down on the inlet side. The TI drawing is only a picture, so it was vectorised "
-            "(tools/raster.py), not traced: lines follow the picture to within about 0.3 mm, but joints are not as clean as a traced drawing. "
-            "Heights are from the TI: 1.5\" cap top to centreline, 3.0\" centreline to the bottom of the strainer. "
-            "The TI gives no face to face for the connector; it is measured from the picture at the same scale "
-            "(about 80 mm) and the connections are there. The connector is sold separately (TI-2-519-US, not "
-            "attached), so 3/4\" and 1\" connectors are not drawn.",
+    "name": "UTD52L", "type": "Thermodynamic, for pipeline connectors, front view", "ti": "TI-P614-04-US",
+    "sizes": {"UTD52L": {}}, "variants": ["-"], "sizeLabel": "Model",
+    "source": "Spirax 2D CAD (UTD52L connector 173C front DWG), 1:1",
+    "note": "Front view from Spirax's 2D CAD of the UTD52L (front DWG, visible edges only), 1:1: the trap seen from "
+            "the connector side, flange 67 round about the spigot, the two connector bolts above and below it, 50.8 "
+            "apart, and the hex body and cap standing up behind (cap top 48.1 above the spigot centreline). The one "
+            "connection point is the bolt centre (= spigot centre), so it snaps onto a connector's trap point. "
+            "Replaces the vectorised TI picture on a strainer connector (2026-11-18); _utd52l still builds that.",
 }
+# Old pack (before 2026-11-18): TI-P614-04-US picture of the trap on a 1/2" strainer connector, vectorised. Kept for reference.
+_UTD52L_TI = {'1/2"': {"Cap top to centreline": 38.1, "Centreline to strainer bottom": 76.2}}
 
 
 def _utd52l(self):
     """TI-P614-04-US p3, third view, picture xref 30 (2219 x 643 px). y above and below the centreline each set from
     its TI dimension; x at the mean of the two scales."""
     import raster as R
-    up, dn = self.d["Cap top to centreline"], self.d["Centreline to strainer bottom"]
+    d = _UTD52L_TI['1/2"']
+    up, dn = d["Cap top to centreline"], d["Centreline to strainer bottom"]
     lw = 0.6
     white = [(1466, 70, 1545, 93), (1185, 226, 1199, 237), (1497, 226, 1545, 237), (1185, 509, 1398, 520),
              (1212, 228, 1286, 235), (1424, 228, 1489, 235),           # dimension lines and the centre line
@@ -633,4 +633,22 @@ def _utds46mcad(self):
         self.d["BDV2 outlet below centreline"] = 44.45
 
 
-TRACERS = {"UFT32": _uft32cad, "USM90": _cad90, "UTDS90": _cad90, "UTD52L": _utd52l, "UFT14HC": _uft14hccad, "UBP32": _ubp32, "UTDS46M": _utds46mcad, "UTDS46M-BDV2": _utds46mcad, "UIB45": _uib, "UIB30": _uib, "UIB30H": _uib}
+
+# UTD52L front view from Spirax's 2D CAD (Mason, 2026-11-18: utd52l_connector_173c front / top / left DWG).
+# tools/cad/UTD52L-front.json is the front DWG's MAIN-1 layer, origin CAD x -87.27, y 12.21. Measured:
+#   front view: flange circle r 33.5 (67) and spigot circles (r 4.95 .. 19.19) about (-87.27, 12.21); bolt hexes centred
+#               (-87.27, 37.61) and (-87.27, -13.19), 50.8 apart vertical -> trap point = bolt centre = origin; locating
+#               notch r 3.18 on the flange's left edge; cap top y 60.32 (48.11 above the spigot centreline)
+#   left view:  spigot axis y 12.21, bolts y 37.61 / -13.19; flange x -63.04..-50.03, y -21.28..45.71 (67); spigot face
+#               x -47.81; bolt heads to x -26.66; body end x -115.51 (spigot face to body end 67.7); cap top y 60.32
+#   top view:   flange 66.84 across (x -120.62..-53.78)
+UTD52L_CAD = Path(__file__).with_name("cad") / "UTD52L-front.json"
+
+
+def _utd52lcad(self):
+    lw = 0.35
+    pl = json.load(open(UTD52L_CAD))["polylines"]
+    _finish(self, [T.polyline(p) for p in pl if len(p) > 1], lw, {"trap": (0.0, 0.0)}, 1.0, close=6)
+    self.d = {"Flange": 67, "Cap top to centreline": 48.1, "Spigot face to body end": 67.7, "Bolt spacing": 50.8}
+
+TRACERS = {"UFT32": _uft32cad, "USM90": _cad90, "UTDS90": _cad90, "UTD52L": _utd52lcad, "UFT14HC": _uft14hccad, "UBP32": _ubp32, "UTDS46M": _utds46mcad, "UTDS46M-BDV2": _utds46mcad, "UIB45": _uib, "UIB30": _uib, "UIB30H": _uib}

diff --git a/tools/README.md b/tools/README.md
@@ -40,7 +40,7 @@ previews. apptest.py also needs `playwright` and Chrome.
                   keep their shape where the body is stretched) and `_finish` (silhouette, box, ports from mm chains)
 - `universal.py`  universal (two bolt) trap units and the 4-bolt USM90 / UTDS90 (CAD front views, `_cad90`): UFT32, UFT14HC, UBP32, UTDS46M (trap unit only, one port at the
                   connector face), UIB45 / UIB30 / UIB30H (front view on the PC10HP, in and out at the connector ends),
-                  UTD52L (vectorised picture). Also the shared helpers `_chains` (strokes with colour and dash flag),
+                  UTD52L (CAD front view; the old vectorised picture is `_utd52l`). Also the shared helpers `_chains` (strokes with colour and dash flag),
                   `_pw` (piecewise map), `_finish` (silhouette, box, ports; `hidden` closes gaps without drawing them)
 - `connectors.py` STS17.2 trapping stations (four horizontal types) and PC4000 / PC4001 / PC40
 - `raster.py`    vectorise a raster TI picture: skeleton to polylines for strokes, filled outer contour for the fill;
@@ -262,8 +262,8 @@ previews. apptest.py also needs `playwright` and Chrome.
     wrong on the PC4000 front view until its front view is traced.
   - Product notes are no longer shown in the app (Mason: too long, pushed the panel down). Keep writing them in the
     tracers: they are the record of what was set from the TI and what was assumed, for the next session.
-  - Still to do: front views for UTD52L, UIB30 /
-    UIB45 (TI-P113-01 / -03); a trap point on STS17.2 (TI-P128-22).
+  - Still to do: front views for UIB30 /
+    UIB45 (UTD52L done from CAD 2026-11-18) (TI-P113-01 / -03); a trap point on STS17.2 (TI-P128-22).
   - Test a new pair with /tmp-style playwright: add the connector, add the trap a few mm off the trap point, check
     portsOf(trap)[0] equals portsOf(connector)[2]; then drop the connector on pipes both ways (applyInline).
 
@@ -315,6 +315,25 @@ previews. apptest.py also needs `playwright` and Chrome.
   - Tests: `apptest.py "Steam traps"` placed 125, no errors. Pair test (playwright, view scale 2, trap put 3 mm off): both
     snap onto every PC4000 / UPC-ST / UPC-STR size and variant with 0.000 error, behind on PC4000, in front on UPC.
     PC4000 1/2" and 3/4" dropped inline on pipes drawn both ways (in upstream, out downstream), then each trap snapped on.
+
+- UTD52L front view from CAD (2026-11-18, utd52l_connector_173c front / top / left DWG, sent loose, not zipped):
+  - Mason's message said "replace current USM 90 and UTDS90" but only the UTD52L DWGs were attached (looks like a leftover
+    from his message template). Read as: replace the UTD52L pack; USM90 / UTDS90 untouched. The product line in his
+    template was not filled in, so model / group were taken from the file name and the existing catalog entry.
+  - Same set-up as UFT32 / UTDS46M: trap unit with its two connector bolts, front view = connector side. Origin CAD x
+    -87.27, y 12.21 (flange r 33.5 and spigot circles centre = bolt centre). `_utd52lcad` in universal.py,
+    tools/cad/UTD52L-front.json (169 pieces -> 24 polylines). Old picture tracer `_utd52l` kept, reads `_UTD52L_TI`.
+  - Measured: bolt hexes at y 37.61 / -13.19, 50.8 apart; flange 67; cap top 48.11 above the spigot centreline; left
+    view spigot face x -47.81 to body end x -115.51 = 67.7. No TI table attached this time, so not checked against it
+    (the old TI's 1.5" cap-to-centreline is to the connector pipe centreline, not the spigot, so it doesn't compare).
+  - Size is now "UTD52L" (sizeLabel Model, variant "-"); old drawings with `UTD52L|1/2"|Strainer connector` show it as
+    missing.
+  - Tests: `apptest.py "Steam traps"` placed 117, no errors. Pair test (/home/claude/work/pair2.py style, view scale 2, trap
+    3 / 2 mm off): snaps with 0.000 error onto every PC4000 / UPC-ST / UPC-STR size and variant (22), behind on PC4000,
+    in front on UPC. PC4000 1/2" and 3/4" dropped inline on pipes drawn both ways (in upstream, both pipe pieces kept),
+    then the trap snapped on. In a test, put the connector's port midpoint within the pipe's inline tolerance (0.8 x OD
+    for 1/2") or findInline returns nothing.
+  - LibreDWG build took about 5 min (background).
 
 - 2026-11-18: HM34 removed from the library (Mason). Pack and catalog entries deleted, DATA entry removed from
   traps2.py; `_hm34` and the raster settings are left in place unused. Drawings that had one show it as missing.
